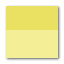
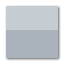
Added header, colored gray

diff --git a/unity/delft-toolkit/Assets/Scripts/delftToolkit/Nodes/Editor/CommentEditor.cs b/unity/delft-toolkit/Assets/Scripts/delftToolkit/Nodes/Editor/CommentEditor.cs
@@ -11,8 +11,20 @@ namespace DelftToolkit {
 		private Comment node { get { return _node != null ? _node : _node = target as Comment; } }
 		private Comment _node;
 
+		private GUIStyle headerStyle {
+			get {
+				if (_headerStyle == null) {
+					_headerStyle = new GUIStyle(NodeEditorResources.styles.nodeHeader);
+					_headerStyle.normal.textColor = Color.black;
+					_headerStyle.alignment = TextAnchor.MiddleLeft;
+				}
+				return _headerStyle;
+			}
+		}
+		private GUIStyle _headerStyle;
+
 		public override void OnHeaderGUI() {
-			GUILayout.Space(30);
+			GUILayout.Label(target.name, headerStyle, GUILayout.Height(30));
 		}
 
 		public override void OnBodyGUI() {
